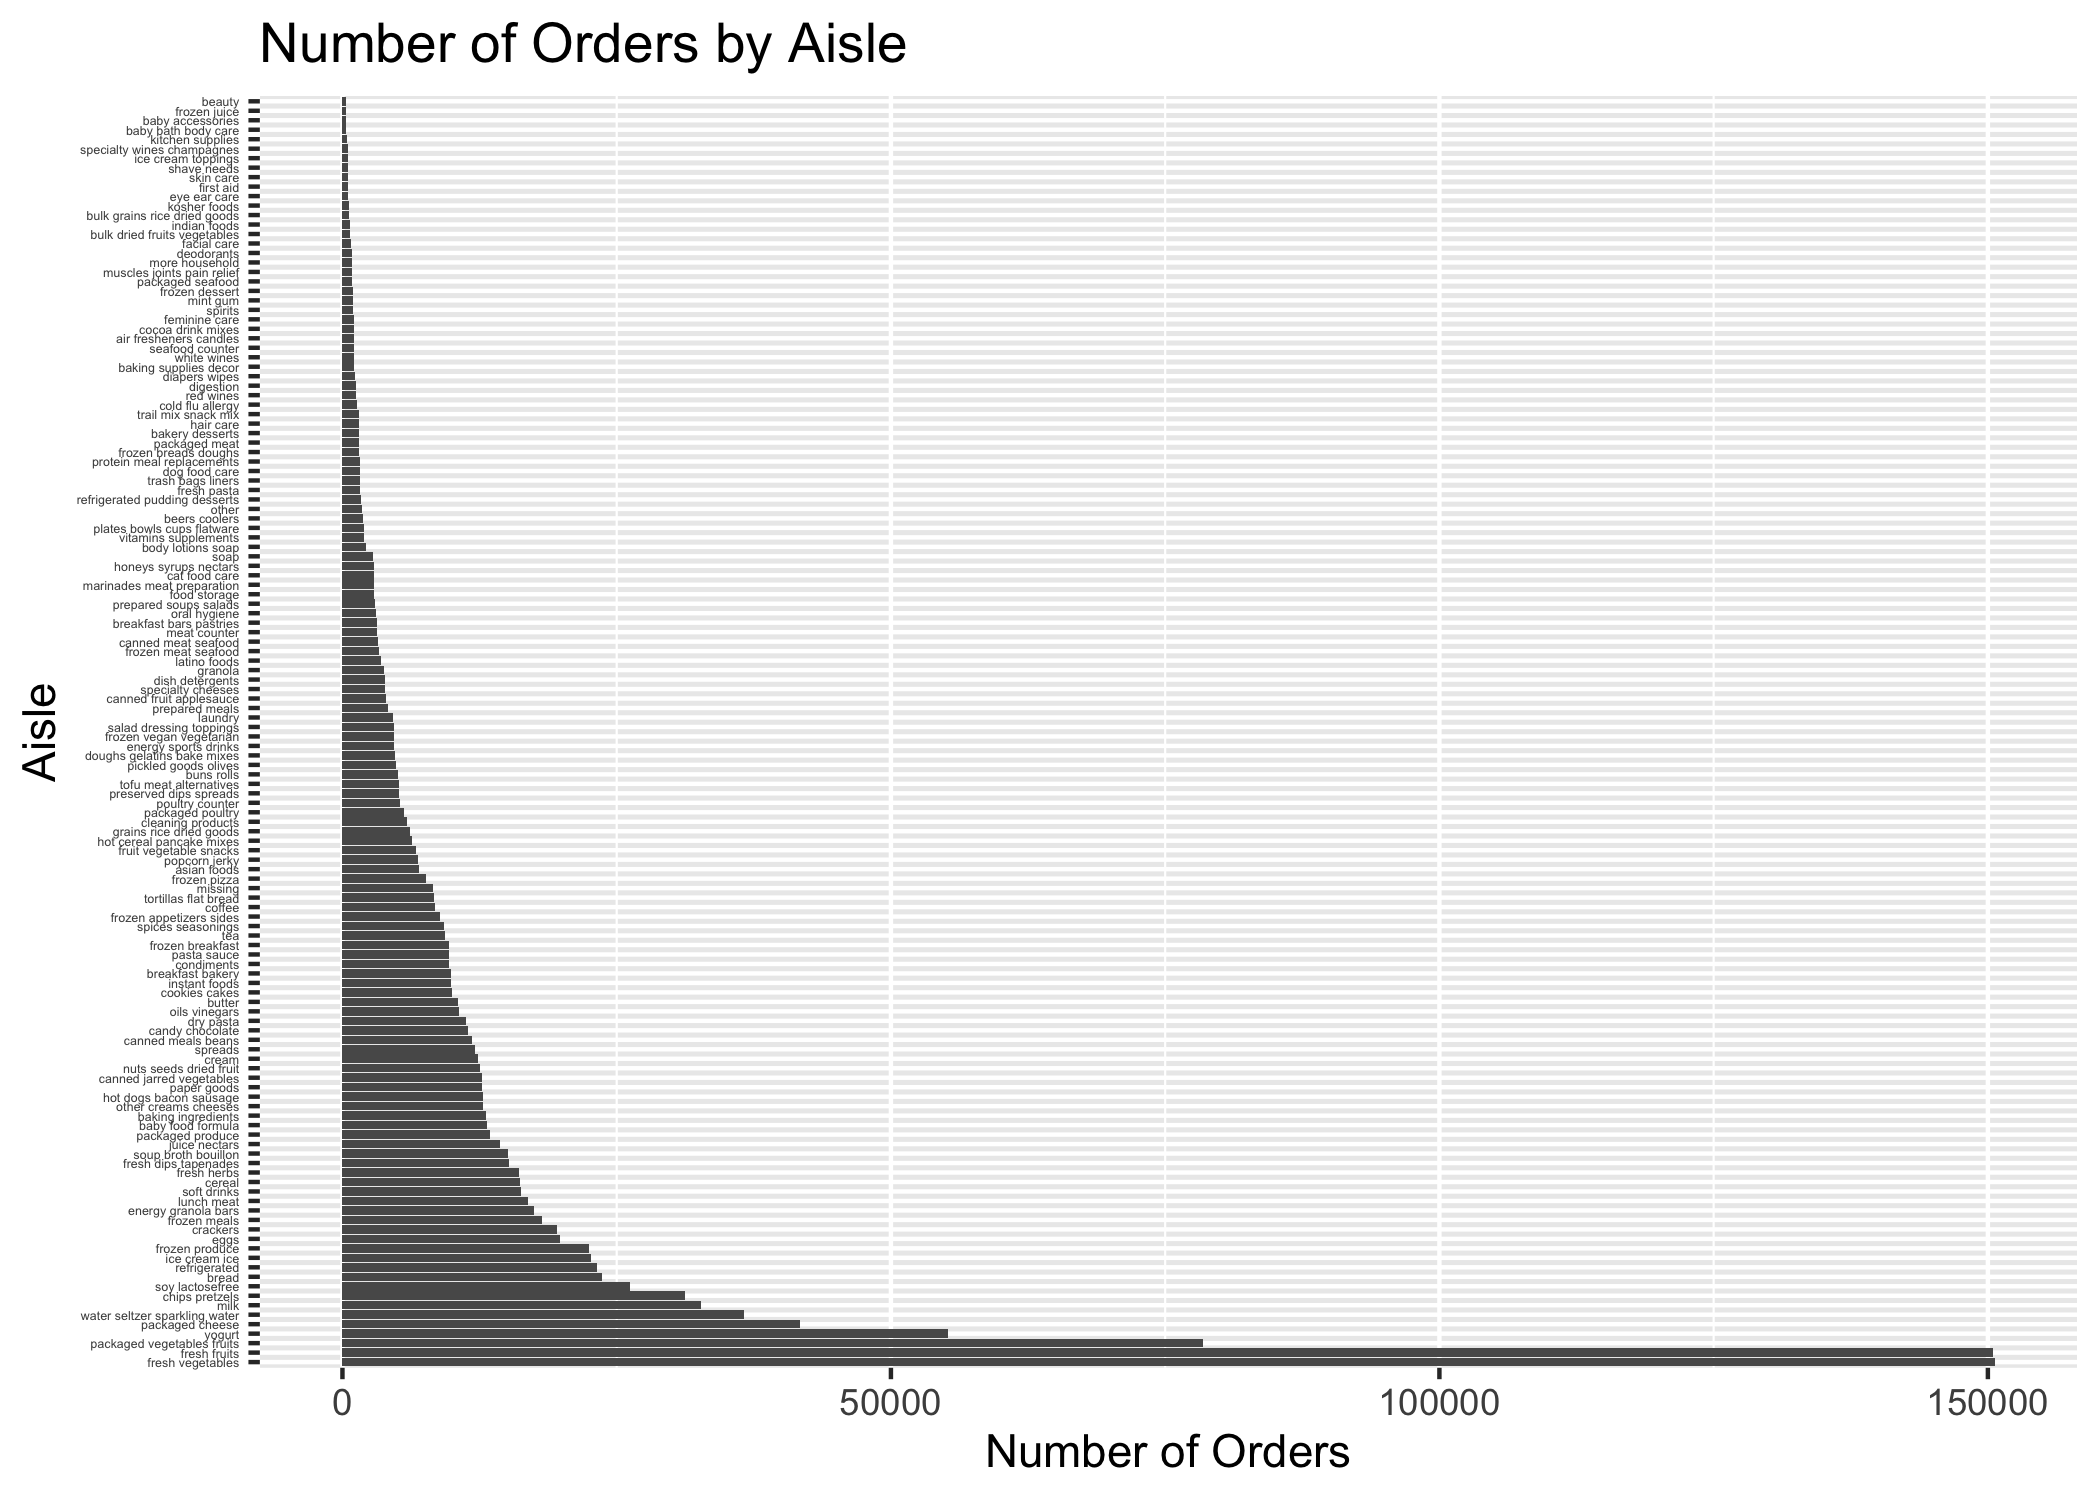
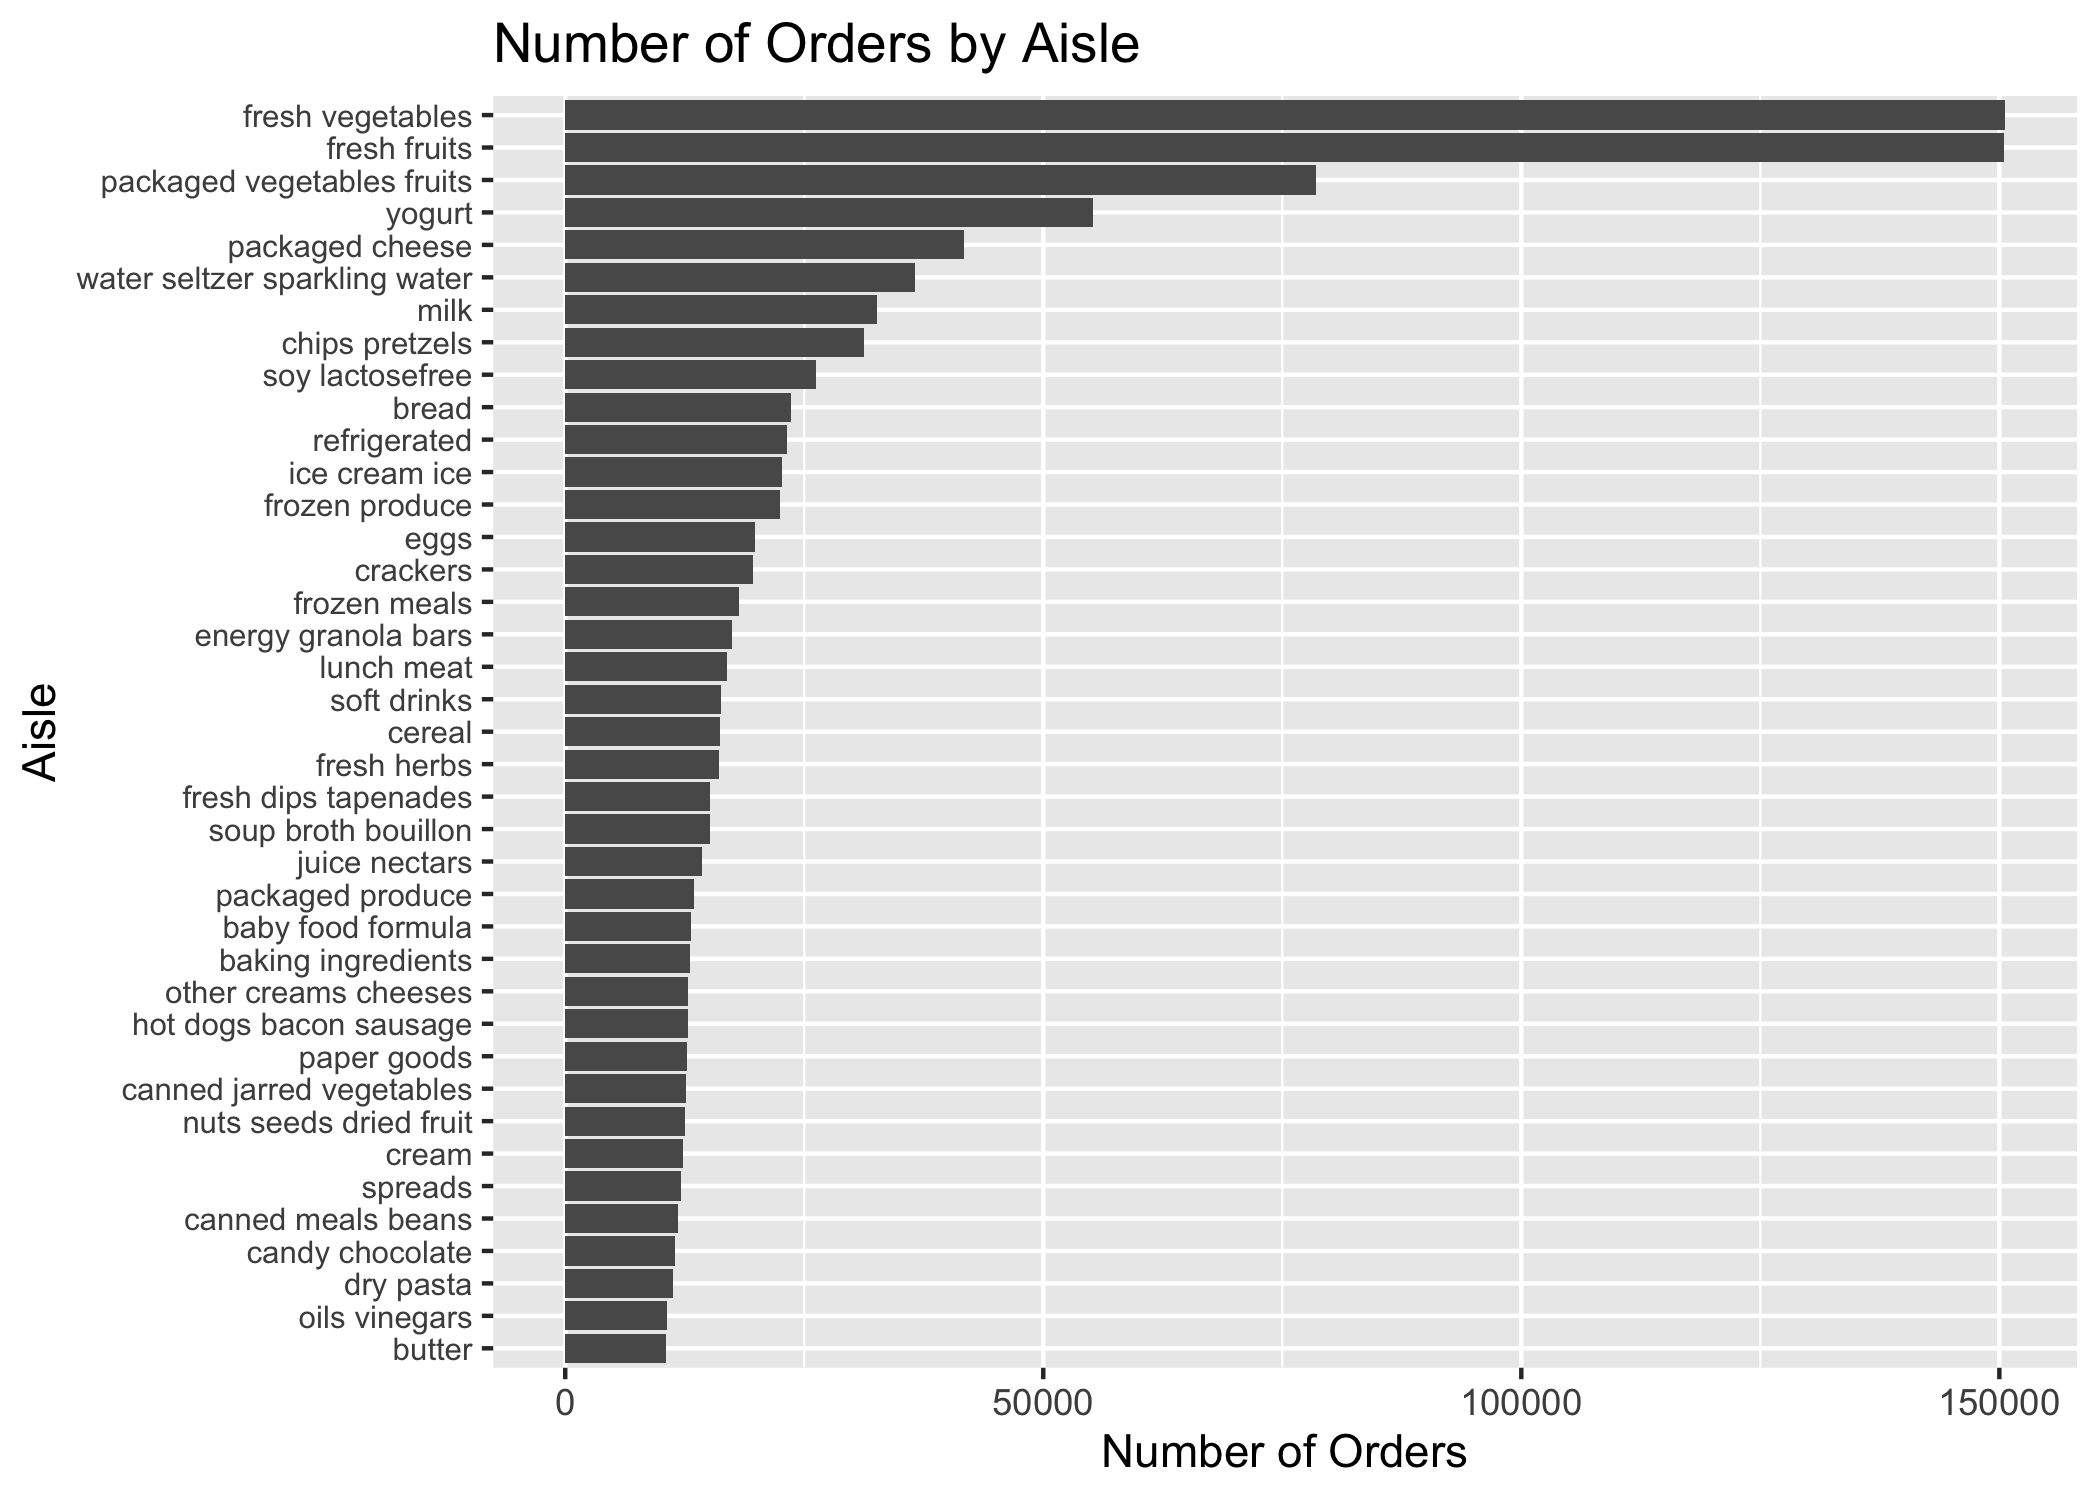
Resubmit - fixed issue with aisle plot

diff --git a/p8105_hw3_jgc2157.md b/p8105_hw3_jgc2157.md
@@ -111,11 +111,15 @@ Maing a plot of orders by aisle
 
 ``` r
 insta_plot <- instacart %>%
-  filter(aisle >= 10000) %>%
-  ggplot(aes(y = forcats::fct_infreq(aisle))) +
-  geom_bar() +
+  group_by(aisle) %>%
+  count(aisle) %>%
+  filter(n >= 10000) %>%
+  ungroup() %>%
+  mutate(aisle = forcats::fct_reorder(aisle, n)) %>%
+  ggplot(aes(y = aisle, x = n)) +
+  geom_col() +
   labs(y = "Aisle", x = "Number of Orders") +
-  theme(axis.text.y = element_text(size = 3)) +
+  theme(axis.text.y = element_text(size = 7.5)) +
   ggtitle("Number of Orders by Aisle")
 
 insta_plot
@@ -126,6 +130,11 @@ insta_plot
 ``` r
 ggsave("insta_plot.png")
 ```
+
+After plotting number of orders by aisle, we can see that fruits and
+vegetables are by far the most order items, followed by other food items
+like yogurt and cheese. Pantry staples like butter, oil, and pasta
+appear to be the least ordered.
 
 Making a table of top three items for baking ingredients, dog food care,
 and packaged fruits and vegetables.
